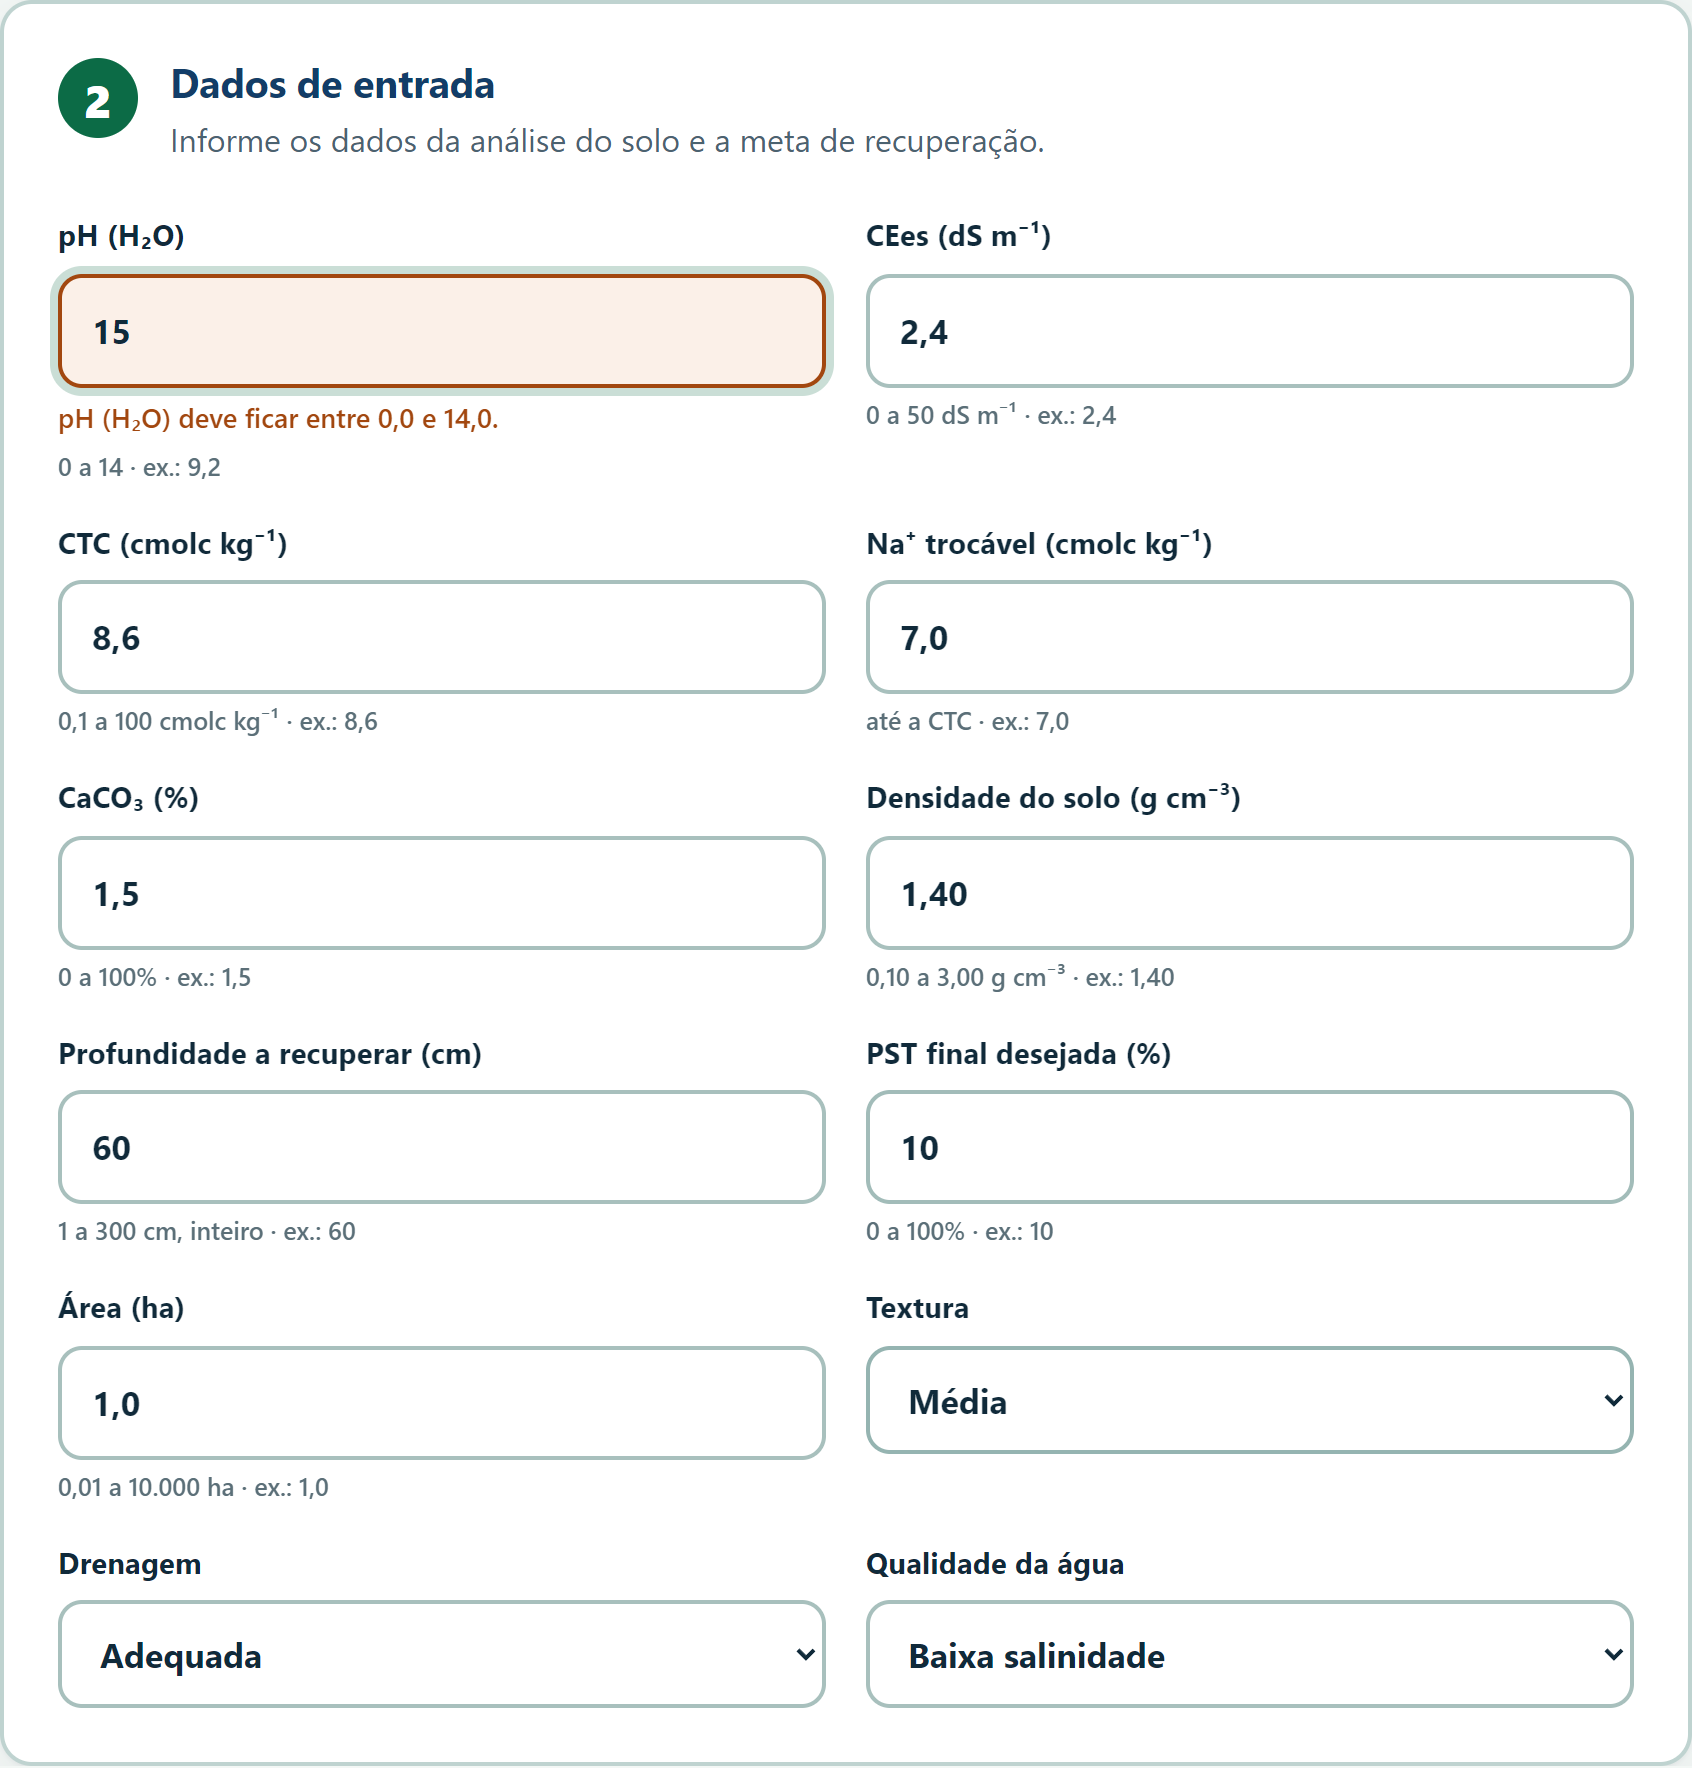
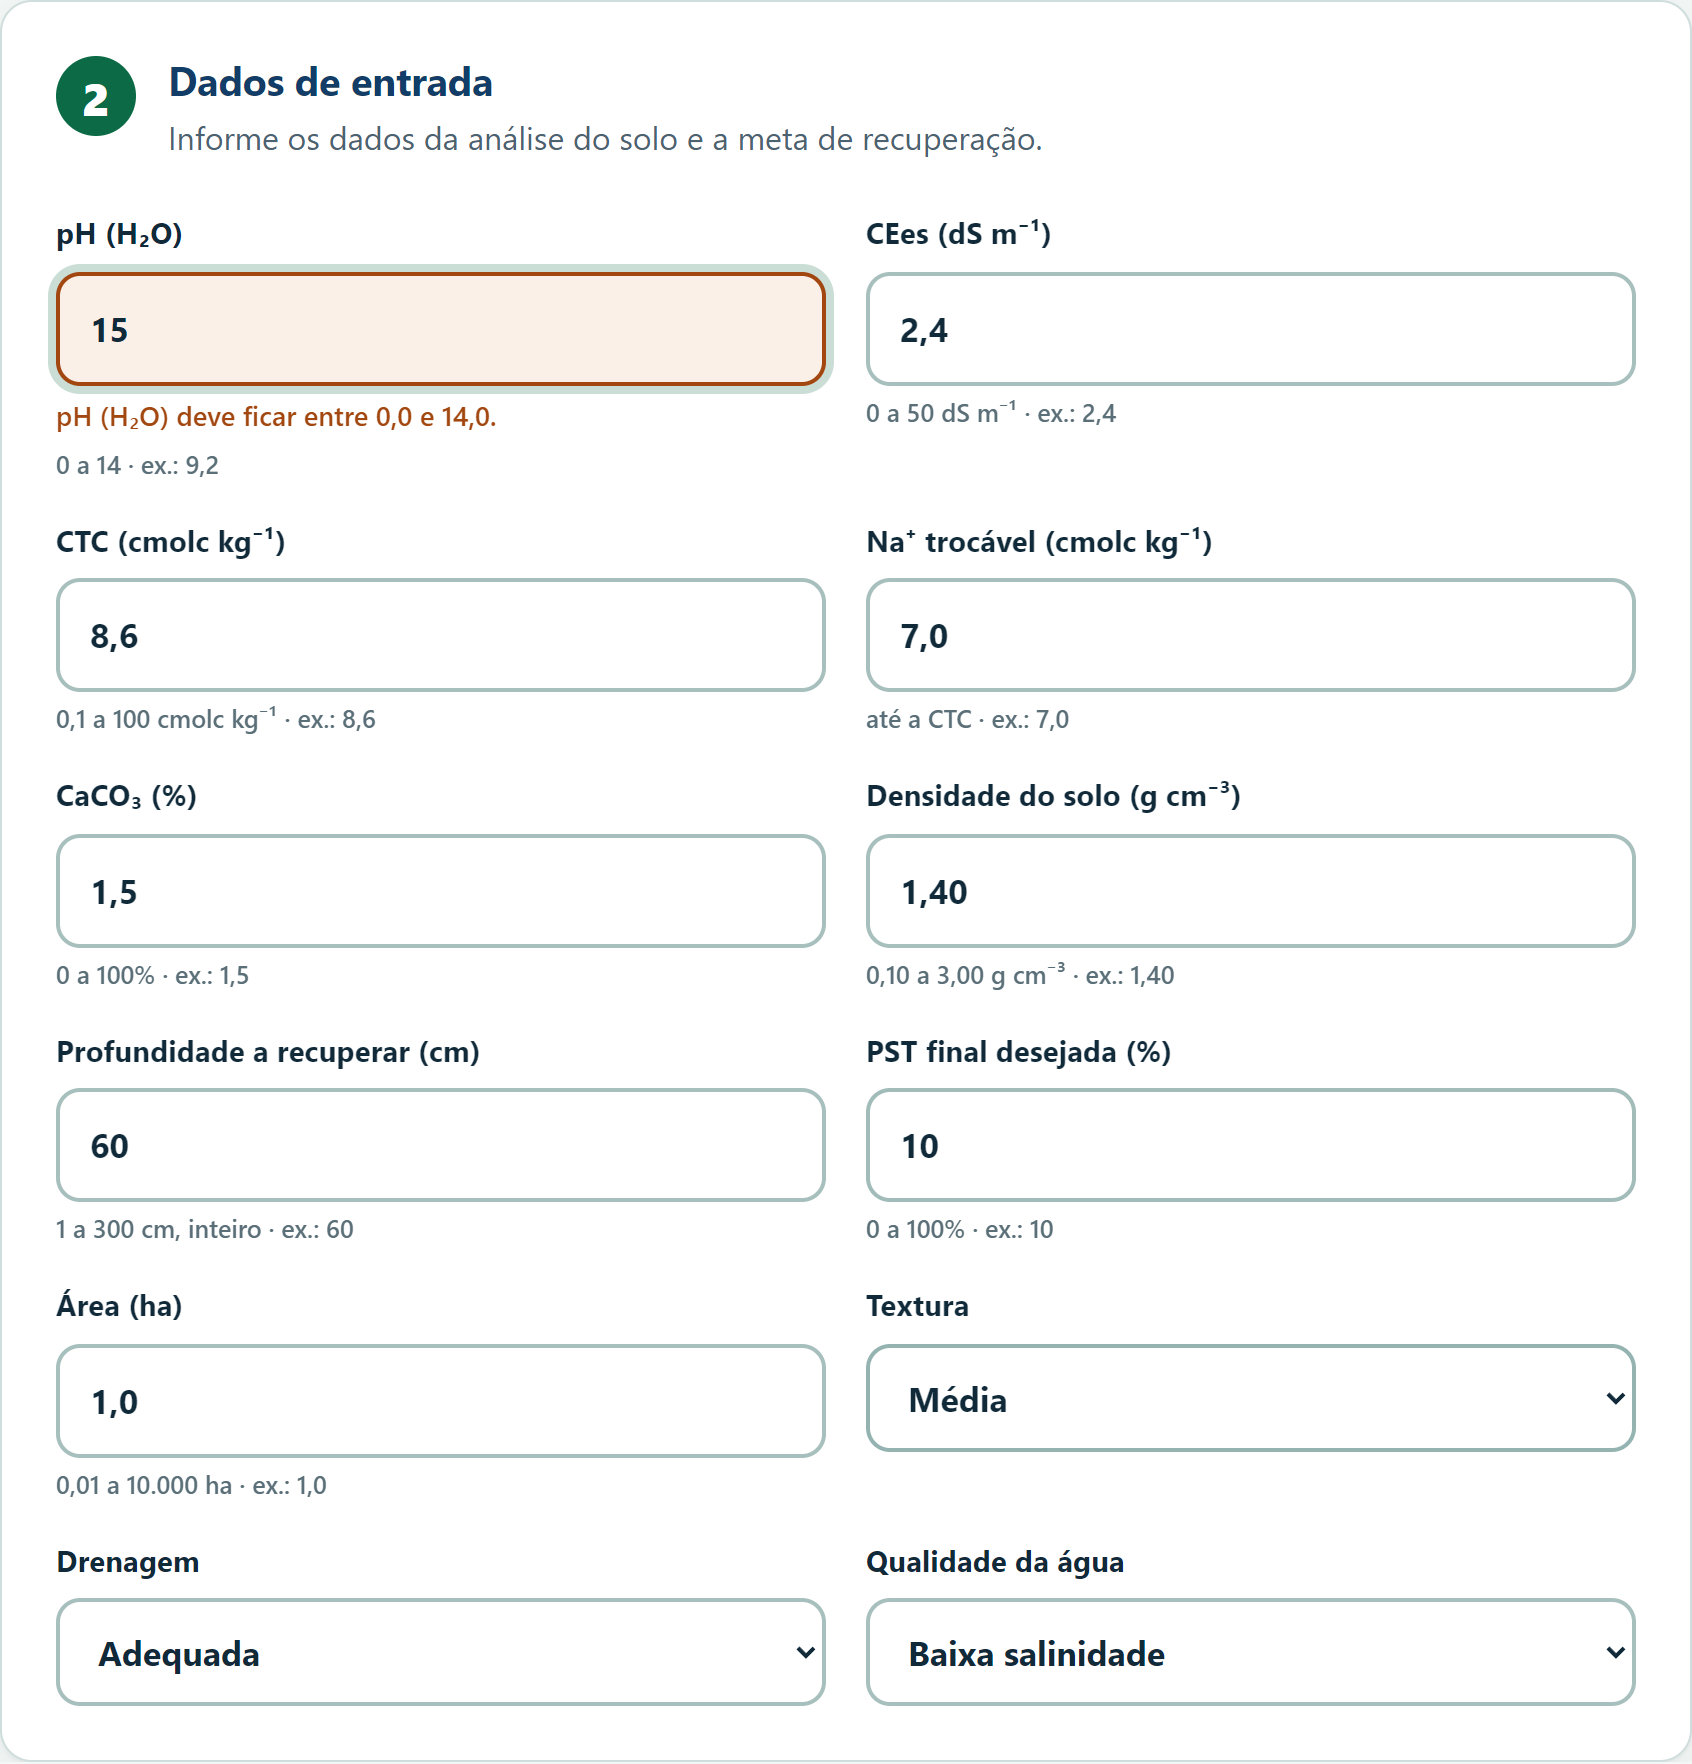
Suaviza as bordas dos cards e grava as licencas do SDK

diff --git a/style.css b/style.css
@@ -217,7 +217,7 @@ code {
 
 .cartao {
   background: var(--papel);
-  border: 2px solid #bfd3d0;
+  border: 1.5px solid #cfdedc;
   border-radius: var(--raio);
   padding: clamp(20px, 3vw, 34px);
   box-shadow: var(--sombra);
@@ -274,7 +274,7 @@ code {
   border-radius: var(--raio-pequeno);
   background: var(--verde-claro);
   color: var(--verde-escuro);
-  border: 2px solid #cfe4d9;
+  border: 1.5px solid #d7e8e0;
 }
 
 /* Formulário */
@@ -358,7 +358,7 @@ select[aria-invalid="true"] {
 }
 
 .corretivo {
-  border: 2px solid #cbdcda;
+  border: 1.5px solid #d3e2df;
   border-radius: 12px;
   padding: 18px;
   background: var(--papel);
@@ -488,7 +488,7 @@ button[aria-pressed="true"] {
 /* Erros resumidos */
 
 .resumo-erros {
-  border: 2px solid #e7c4ad;
+  border: 1.5px solid #e7c4ad;
   background: var(--alerta-fundo);
   color: #6d2c05;
   border-radius: var(--raio);
@@ -532,7 +532,7 @@ button[aria-pressed="true"] {
 }
 
 .caixa-resultado {
-  border: 2px solid #bfd3d0;
+  border: 1.5px solid #cfdedc;
   border-radius: var(--raio-pequeno);
   padding: 18px;
   background: #fafcfb;
@@ -569,7 +569,7 @@ button[aria-pressed="true"] {
 
 .tabela-rolagem {
   overflow-x: auto;
-  border: 2px solid #bfd3d0;
+  border: 1.5px solid #cfdedc;
   border-radius: var(--raio-pequeno);
 }
 
@@ -617,7 +617,7 @@ td.atencao {
   margin-top: 16px;
   padding: 14px 16px;
   border-radius: var(--raio-pequeno);
-  border: 2px solid var(--dourado-linha);
+  border: 1.5px solid var(--dourado-linha);
   background: var(--dourado-claro);
   color: #55400f;
   font-variant-numeric: tabular-nums;
